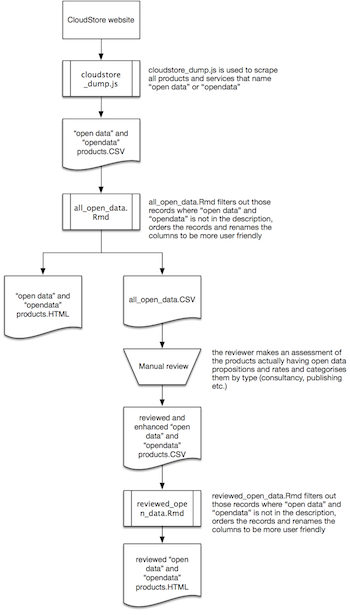
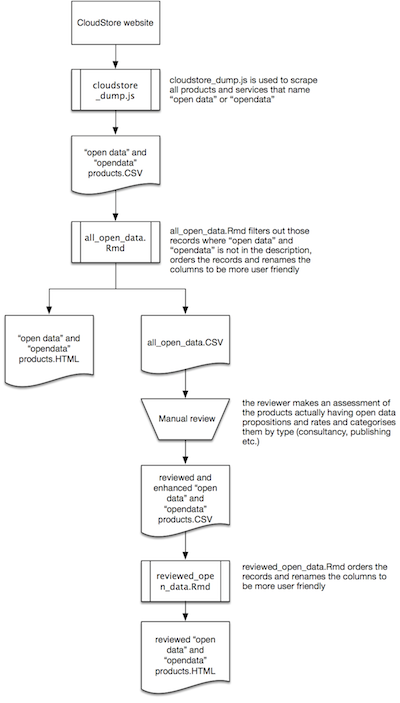
Cosmetic improvements

diff --git a/README.md b/README.md
@@ -21,11 +21,11 @@ The objective of this project is to:
 ###The figures
 On 23 March 2014, 656 companies listed on CloudStore 3,116 products and services whose description included the word "data", over a total of 12,750 products.
 
-Of these, 12 companies offered 22 products and services users that make explicit use of open data or have a proposition that is strongly centred around open data, as verified by one of our reviewers.
+Of these, 12 companies offered 22 products and services that make explicit use of open data or have a proposition that is strongly centred around open data, as verified by one of our reviewers.
 
 In respect to the only previous snapshot we have of CloudStore, dated May 2012, we can see how the attention to data services and to open data in particular has increased substantially. At the time, the whole of CloudStore was about 1/10th of the size of today and listed 1,135 products and services. We had 58 suppliers offering 96 data products and services, 1 of which only referred to "open data".
 
-This means that within the success of CloudStore's +1,023% growth in 22 months (112% month-on-month, like saying that it doubled in size every month), services whose description refer to the "data" keyword grew by +3,146%. Open data services in particular grew by +2,100%.
+This means that within the success of CloudStore's +1,023% growth in 22 months (112% month-on-month, like saying that it doubled in size every month), services whose descriptions refer to "data" grew by +3,146%. Open data services in particular grew by +2,100%.
 
 ![Summary table](images/table_1.png)
 
@@ -102,4 +102,4 @@ We considered only products and services scoring 1 or 2 to be genuine open data 
 
 The data published on HM Government's CloudStore is open data, licensed under [OGL](http://www.nationalarchives.gov.uk/doc/open-government-licence/version/2/). 
 
-![Digital Contraptions Imaginarium's logo](images/dicoim.png) odi-gcloud-analysis is a Digital Contraptions Imaginarium Ltd. project for the [Open Data Institute](http://theodi.org/).
+![Digital Contraptions Imaginarium's logo](images/dicoim.png) odi-gcloud-analysis is a [Digital Contraptions Imaginarium Ltd.](http://www.digitalcontraptionsimaginarium.co.uk/) project for the [Open Data Institute](http://theodi.org/).
